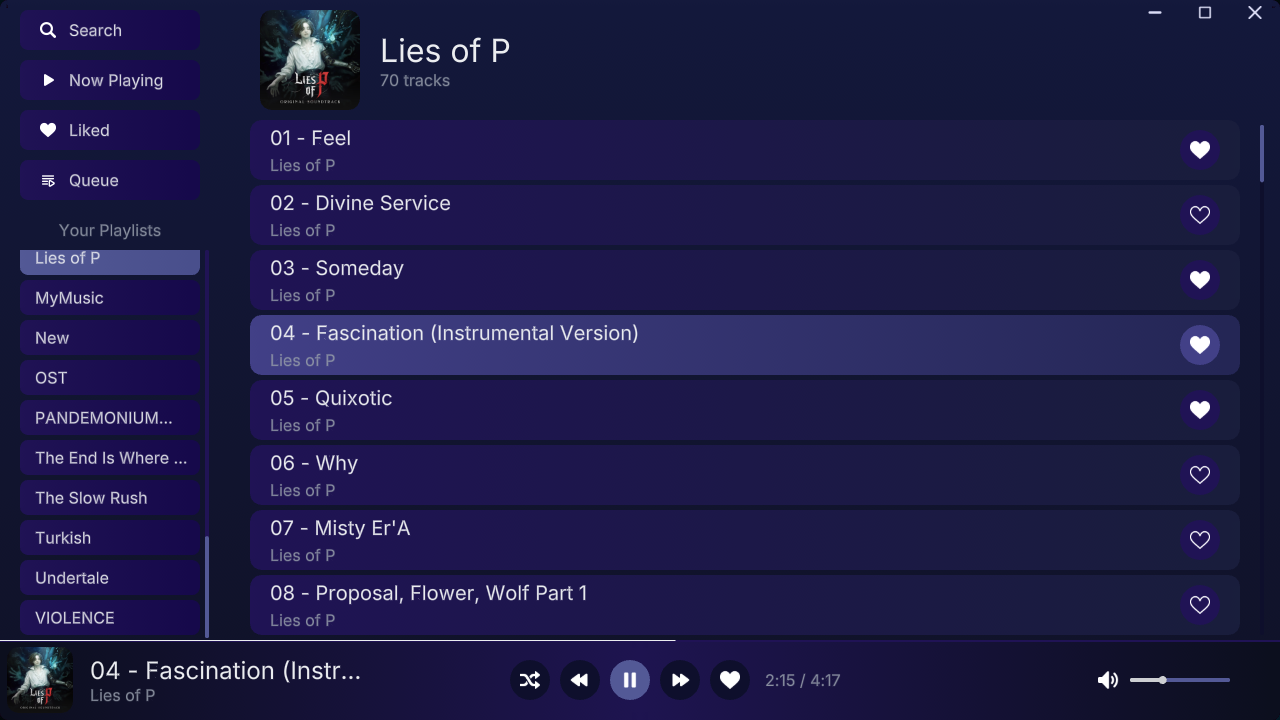
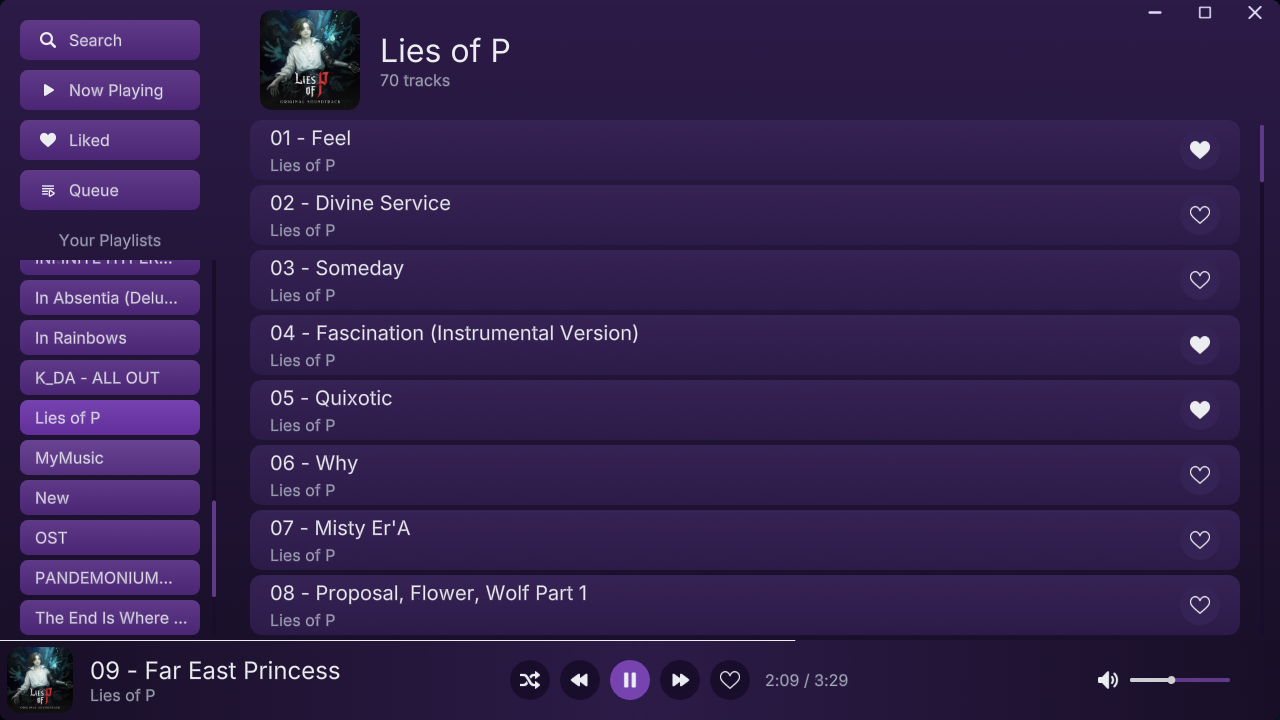
Update README.md

diff --git a/README.md b/README.md
@@ -2,27 +2,39 @@
 
 A **minimalist**, **modern**, and **native** music player
 
-[Download Here](https://github.com/mfbulut/MusicPlayer/releases/latest)
+### [Download Here](https://github.com/mfbulut/MusicPlayer/releases/latest)
 
+### Features
 - **Auto-scans Music Folder**: By default, scans `C:\Users\{username}\Music\` for Music files.
-- **Playlist Discovery**: Any folder containing mp3, flac, wav, opus and ogg(opus only) files is treated as a playlist.
+  - Each folder treated as a playlist
+- **Supported formats**: mp3, flac, wav and ogg(opus)
 - **Cover Art Support**:
-  - Extracts embedded PNG cover art from metadata if available.
-  - Otherwise it attempts to load `cover.qoi` or `cover.png` if found in the folder.
-- Use right click adds songs to the **queue**
-- **Hide Sidebar** using Ctrl+B
+  - Extracts embedded cover art from file metadata.
+  - If unavailable, tries to load cover.png, cover.jpg, or cover.qoi from the music folder.
 
-## Building
+### Controls
 
-Currently only Windows is supported
-
-Run ``` odin build src -out:music.exe -o:speed -resource:src/assets/resource.rc -subsystem:windows```
+| Action                | Shortcut             |
+| --------------------- | -------------------- |
+| Cycle Themes          | `F4`                 |
+| Toggle Sidebar        | `Ctrl + B`           |
+| Add to End of Queue   | `Right-Click`        |
+| Add to Start of Queue | `Ctrl + Right-Click` |
+| Remove from Queue     | `Ctrl + Left-Click`  |
 
 ## Screenshots
 
 ![screenshot](screenshots/1.png)
 ![screenshot](screenshots/2.png)
 ![screenshot](screenshots/3.png)
+
+## Building
+
+Currently only Windows is supported
+
+[Install Odin compiler](https://odin-lang.org/docs/install/) and run
+
+```odin build src -out:music.exe -o:speed -resource:src/assets/resource.rc -subsystem:windows```
 
 ## Recommended Software
 
